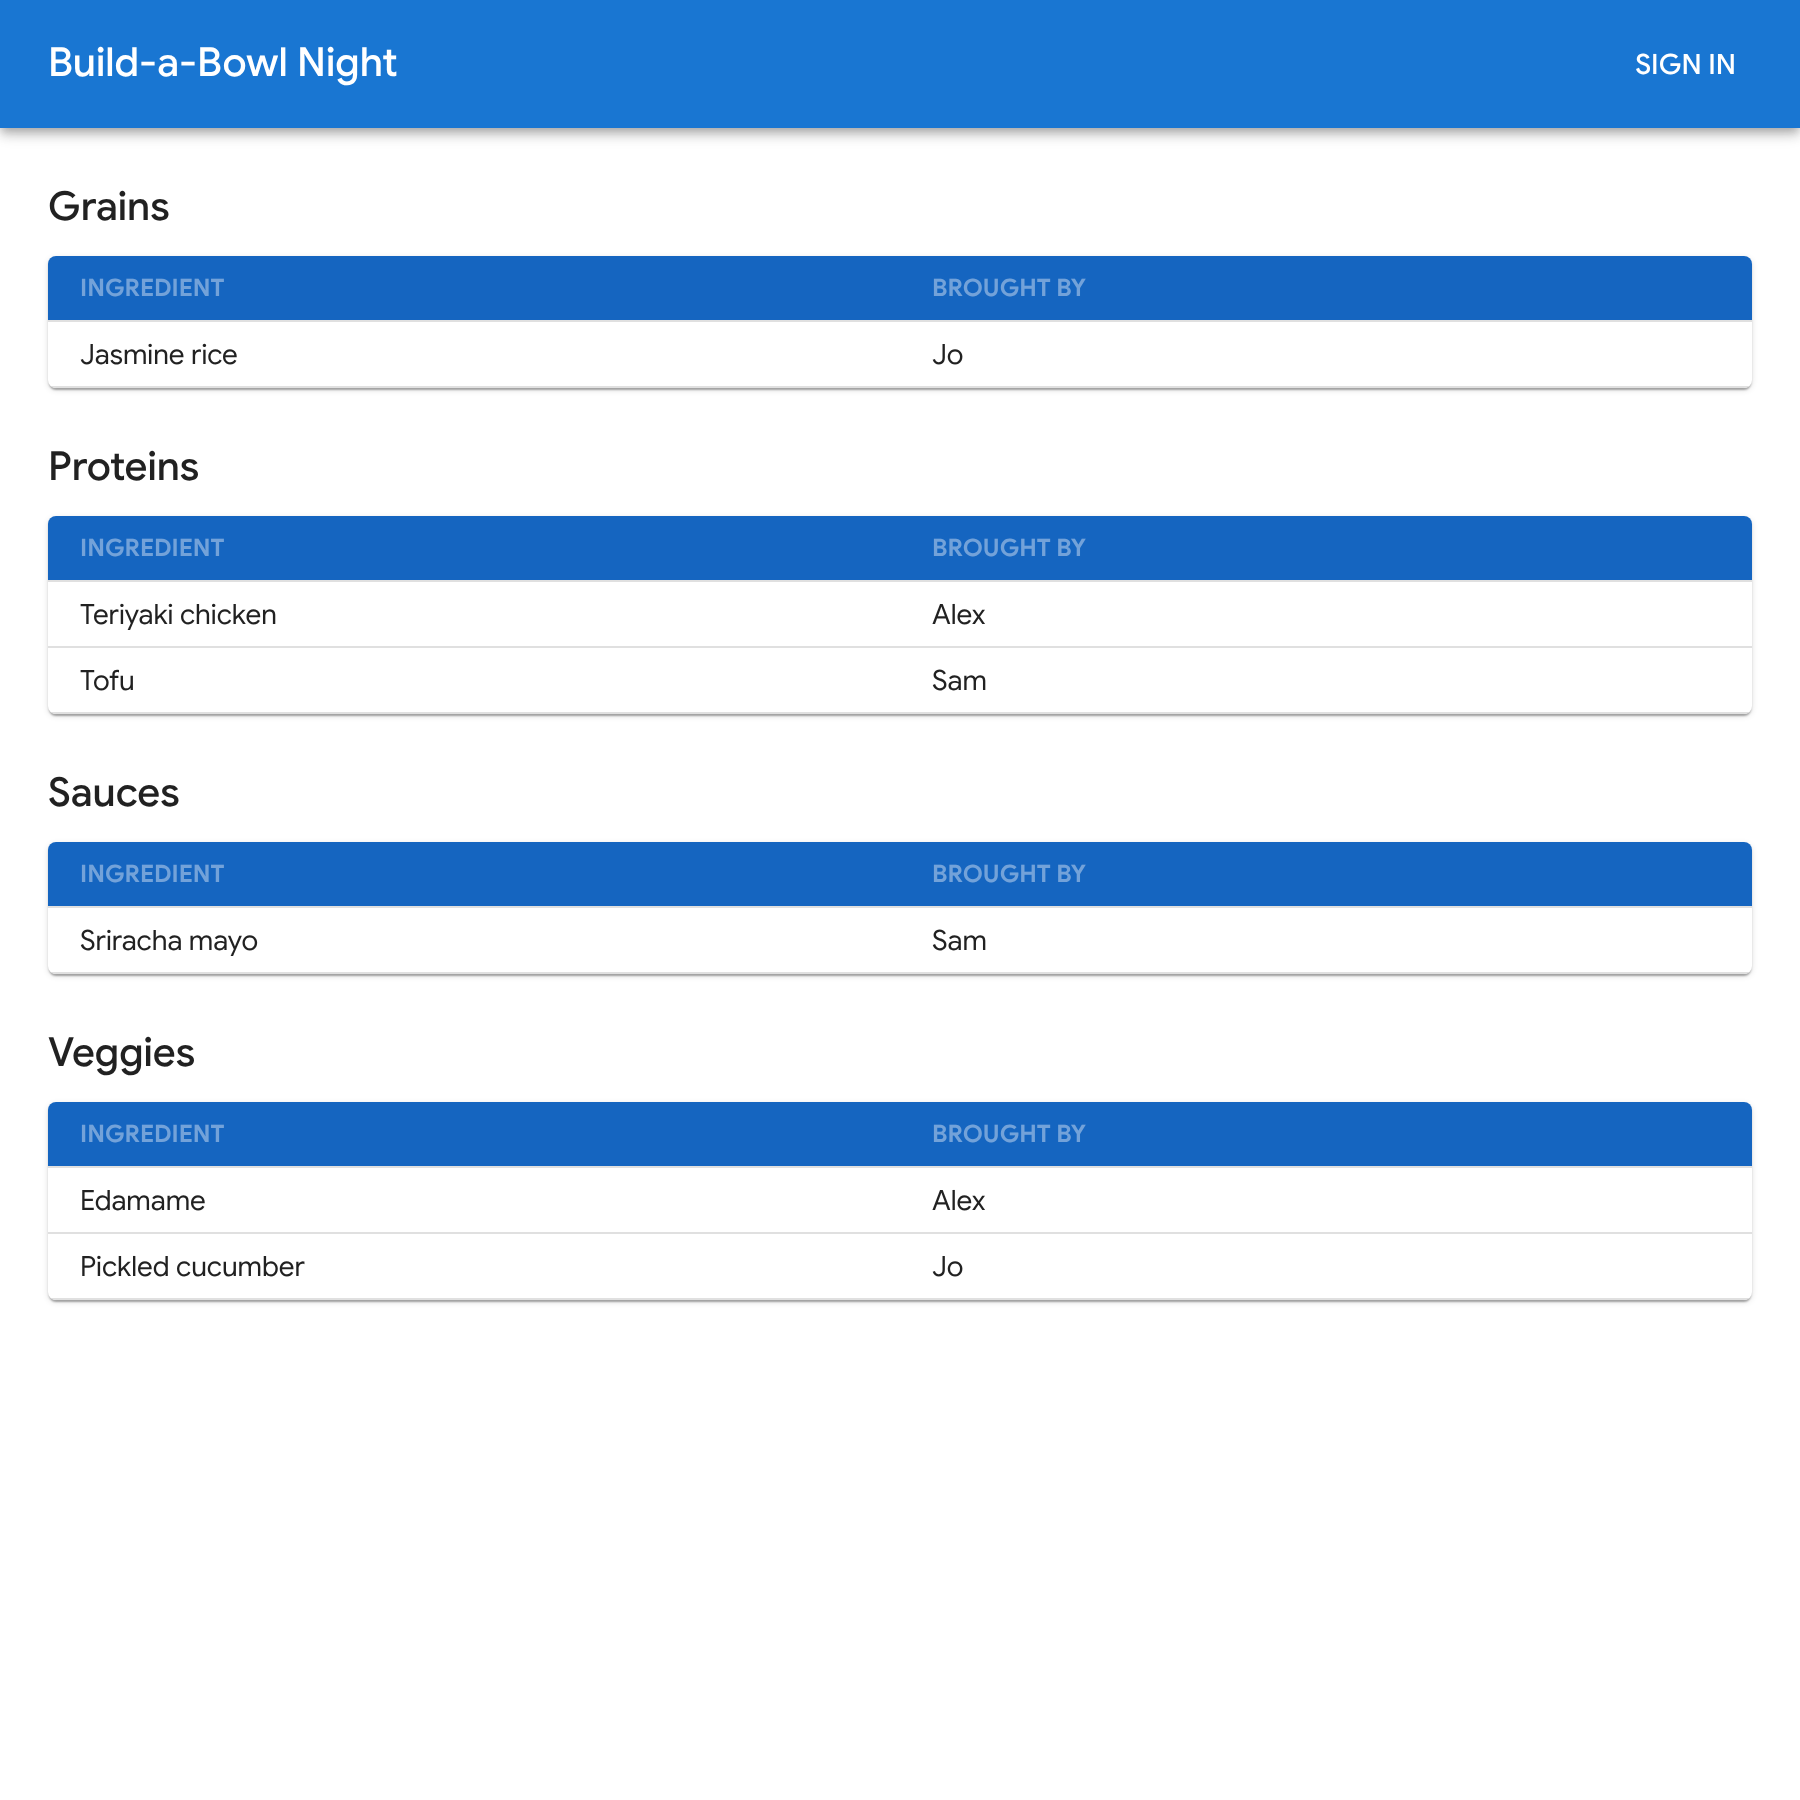
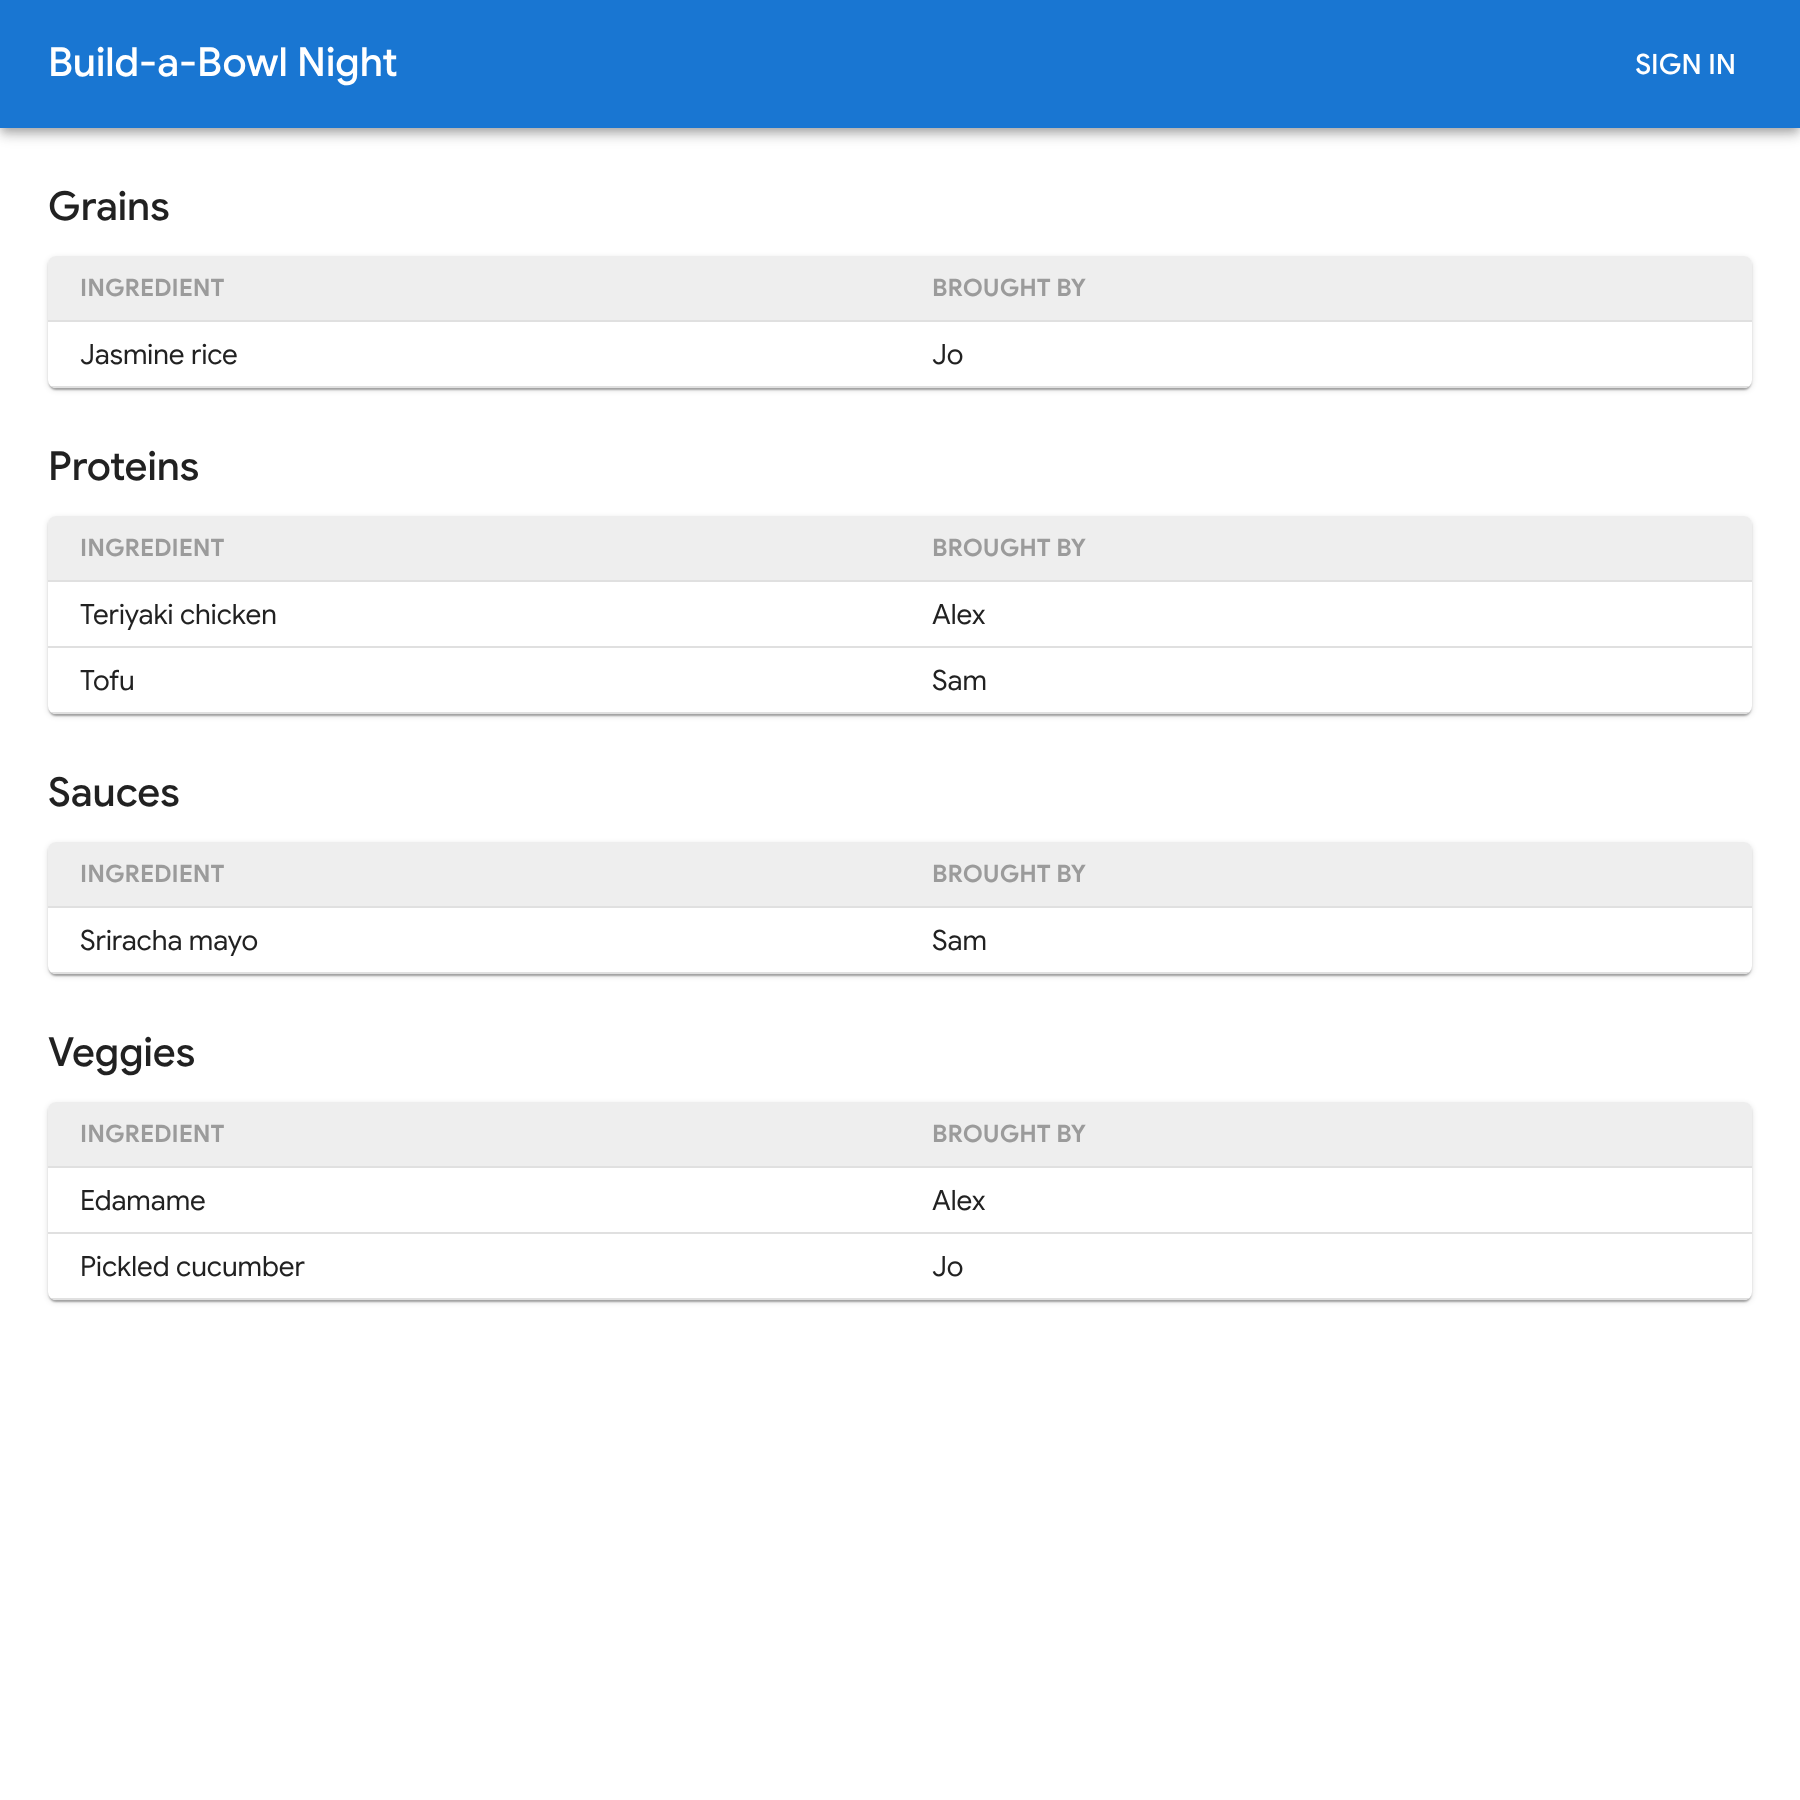
Make column header row gray, adapting to light and dark mode
Claude-Session: https://claude.ai/code/session_01YaXshzgAPddr5nf8bECYCv

diff --git a/site/src/components/IngredientTable.tsx b/site/src/components/IngredientTable.tsx
@@ -16,12 +16,12 @@ interface IngredientTableProps {
   ingredients: Ingredient[];
 }
 
-// Style for the column header cells: small, bold, all-caps text in white at 40% opacity.
+// Style for the column header cells: small, bold, all-caps text in the default text color at 40% opacity.
 const headerCellSx = {
   typography: "caption",
   fontWeight: "bold",
   textTransform: "uppercase",
-  color: "common.white",
+  color: "text.primary",
   opacity: 0.4,
 } as const;
 
@@ -42,8 +42,15 @@ export default function IngredientTable({ ingredients }: IngredientTableProps) {
           <TableContainer component={Paper}>
             <Table size="small" sx={{ tableLayout: "fixed" }}>
               <TableHead>
-                {/* Column headers: a darker shade of the accent color, small, bold, all caps. */}
-                <TableRow sx={{ bgcolor: "primary.dark" }}>
+                {/* Column headers: light gray in light mode, dark gray in dark mode. */}
+                <TableRow
+                  sx={(theme) => ({
+                    bgcolor:
+                      theme.palette.mode === "dark"
+                        ? theme.palette.grey[800]
+                        : theme.palette.grey[200],
+                  })}
+                >
                   <TableCell sx={headerCellSx}>Ingredient</TableCell>
                   <TableCell sx={headerCellSx}>Brought by</TableCell>
                 </TableRow>
